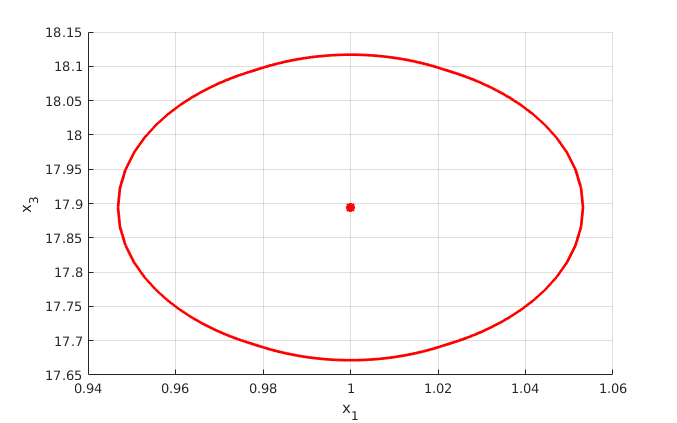
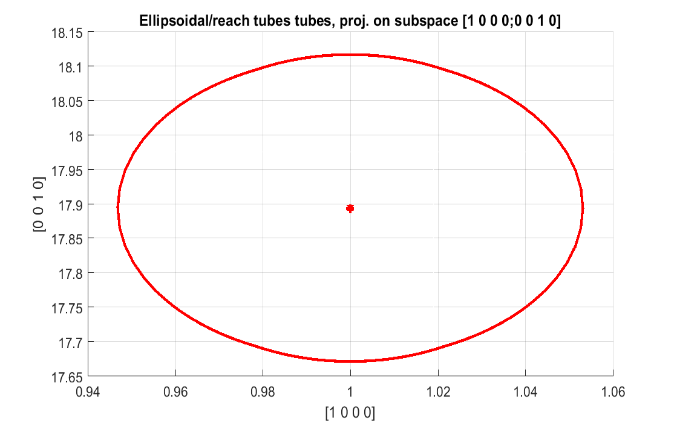
issue #54: Added picgen functions, pictures, small changes in chap_examples

diff --git a/products/+elltool/+doc/+picgen/chapter06_section05_tube1.m b/products/+elltool/+doc/+picgen/chapter06_section05_tube1.m
@@ -1,0 +1,10 @@
+function chapter06_section05_tube1
+close all 
+elltool.doc.snip.s_chapter06_section05_snippet01;
+elltool.doc.snip.s_chapter06_section05_snippet02;
+hFigHandle = findobj('Type','figure'); 
+figRegExpList = {'[a-zA-Z_0-9:;,\]\[\s]*_backward_reach_set_proj\w*'}; 
+
+elltool.doc.picgen.PicGenController.savePicFileNameByCaller(... 
+hFigHandle, 1, 1, 1, 1, 'figRegExpList', figRegExpList); 
+end

diff --git a/products/+elltool/+doc/+picgen/chapter06_section05_set1.m b/products/+elltool/+doc/+picgen/chapter06_section05_set1.m
@@ -1,0 +1,10 @@
+function chapter06_section05_set1
+close all 
+elltool.doc.snip.s_chapter06_section05_snippet01;
+elltool.doc.snip.s_chapter06_section05_snippet03;
+hFigHandle = findobj('Type','figure'); 
+figRegExpList = {'[a-zA-Z_0-9:;,\]\[\s]*_backward_reach_set_proj\w*'}; 
+
+elltool.doc.picgen.PicGenController.savePicFileNameByCaller(... 
+hFigHandle, 1, 1, 1, 1, 'figRegExpList', figRegExpList); 
+end

diff --git a/doc/chap_examples.rst b/doc/chap_examples.rst
@@ -640,10 +640,19 @@ Consider some moment of time :math:`t_1` and final position :math:`x_1(t_1) = x^
 
 The projection of the backward reachability set for system :eq:`invpendls`
 at :math:`t_0=0` onto :math:`(x_1,x_3)`
-subspace is given in :num:`figure #brset`,
-and the corresponding projection of the backward reachability tube evolving
+subspace is given in :num:`figure #brset`.
+
+.. literalinclude:: ../products/+elltool/+doc/+snip/s_chapter06_section05_snippet03.m
+   :language: matlab
+   :linenos:
+
+And the corresponding projection of the backward reachability tube evolving
 from :math:`t_1=1` to :math:`t_0=0` is shown
 in :num:`figure #brtube`.
+
+.. literalinclude:: ../products/+elltool/+doc/+snip/s_chapter06_section05_snippet02.m
+   :language: matlab
+   :linenos:
 
 .. _brset:
 
